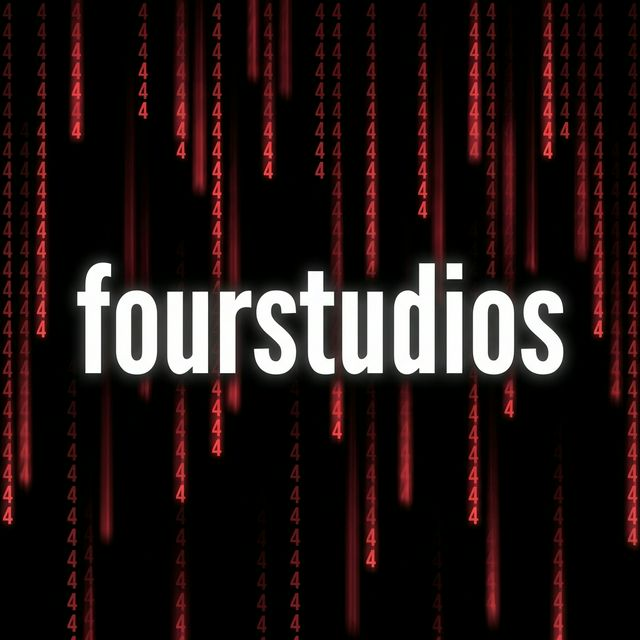
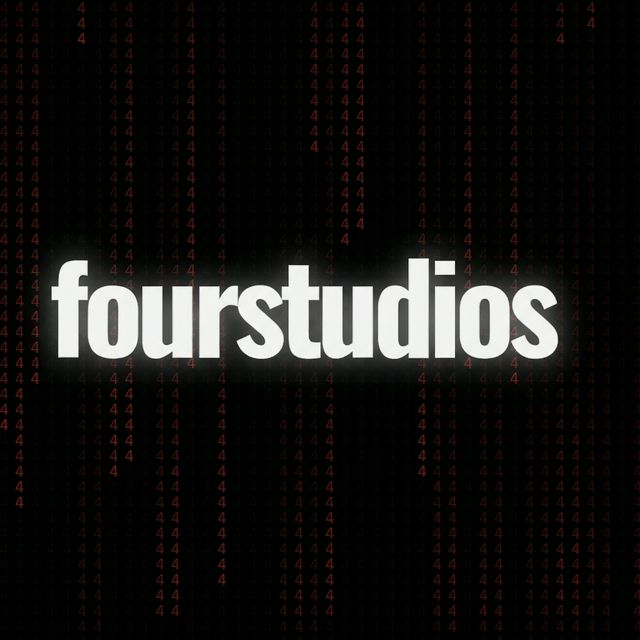
fix: clean OG image - removed blue browser border

diff --git a/src/components/Hero.tsx b/src/components/Hero.tsx
@@ -10,33 +10,25 @@ const Hero = () => {
             {/* Content */}
             <div className="relative z-10 px-4 sm:px-6 lg:px-8 text-center max-w-5xl mx-auto flex flex-col items-center">
 
-                {/* Top Tagline */}
-                <div className="mb-12 animate-fade-in-up delay-100 mix-blend-screen">
-                    <span className="text-xs md:text-sm font-bold tracking-[0.4em] uppercase text-blood-red font-oswald border-b border-blood-red/30 pb-2 shadow-[0_0_15px_rgba(138,3,3,0.5)]">
-                        Est. 2025 • High Performance Digital
+                {/* Main Headline — Minimal & Bold */}
+                <h1 className="font-oswald uppercase tracking-wider leading-none mb-6 animate-fade-in-up delay-200 select-none">
+                    <span className="text-6xl md:text-[10rem] font-black text-transparent bg-clip-text bg-gradient-to-b from-blood-red via-red-600 to-red-900 drop-shadow-[0_0_40px_rgba(138,3,3,0.6)] animate-pulse-slow">
+                        FOUR
                     </span>
-                </div>
-
-                {/* Main Headline */}
-                <h1 className="text-5xl md:text-8xl font-bold font-oswald uppercase tracking-wide text-white leading-tight mb-8 animate-fade-in-up delay-200">
-                    Digital Assets.<br />
-                    <span className="text-transparent bg-clip-text bg-gradient-to-b from-white to-gray-500 animate-pulse-slow">Full Ownership.</span>
+                    <span className="text-5xl md:text-8xl font-bold text-white tracking-[0.15em] ml-2 md:ml-4">
+                        YOU.
+                    </span>
                 </h1>
 
-                {/* Subcopy */}
-                <p className="text-lg md:text-xl text-gray-300 font-light max-w-2xl mx-auto mb-16 tracking-wide leading-relaxed animate-fade-in-up delay-300 drop-shadow-md">
-                    We build the systems that build your business. <br className="hidden md:block" />
-                    No leasing. No retainers. Just pure equity.
+                {/* Single-Line Tagline */}
+                <p className="text-sm md:text-base text-gray-500 font-light tracking-[0.3em] uppercase animate-fade-in-up delay-300">
+                    We build what you own.
                 </p>
 
-                {/* Minimal Actions */}
-                <div className="flex flex-col md:flex-row items-center gap-8 animate-fade-in-up delay-400">
-                    <button className="text-white hover:text-blood-red transition-colors duration-300 font-oswald uppercase tracking-[0.2em] text-sm border-b border-white/20 hover:border-blood-red pb-1 hover:shadow-[0_0_10px_rgba(138,3,3,0.5)]">
-                        Start Project
-                    </button>
-                    <span className="text-gray-700 hidden md:inline">|</span>
-                    <button className="text-gray-500 hover:text-white transition-colors duration-300 font-oswald uppercase tracking-[0.2em] text-sm pb-1">
-                        View Work
+                {/* Single CTA */}
+                <div className="mt-16 animate-fade-in-up delay-400">
+                    <button className="text-white/60 hover:text-blood-red transition-all duration-500 font-oswald uppercase tracking-[0.3em] text-xs border-b border-white/10 hover:border-blood-red/50 pb-2 hover:shadow-[0_0_20px_rgba(138,3,3,0.4)]">
+                        Get Started
                     </button>
                 </div>
 

diff --git a/src/components/Portfolio.tsx b/src/components/Portfolio.tsx
@@ -32,7 +32,7 @@ const Portfolio = () => {
                 <div className="flex flex-col md:flex-row justify-between items-end mb-12 gap-6">
                     <div>
                         <h2 className="text-sm font-bold text-blood-red tracking-[0.2em] uppercase mb-3 font-oswald">Our Work</h2>
-                        <h3 className="text-3xl md:text-5xl font-bold text-white font-oswald uppercase tracking-tight">Results <span className="text-gray-600">Speak</span></h3>
+                        <h3 className="text-3xl md:text-5xl font-bold text-white font-oswald uppercase tracking-tight">Results Speak <span className="text-blood-red drop-shadow-[0_0_10px_rgba(138,3,3,0.5)]">Four</span> <span className="text-gray-600">Themselves</span></h3>
                     </div>
                     <button className="text-white hover:text-blood-red transition-colors font-oswald uppercase tracking-widest text-sm flex items-center gap-2 group">
                         View Full Portfolio <ArrowUpRight className="w-4 h-4 group-hover:-translate-y-1 group-hover:translate-x-1 transition-transform" />

diff --git a/src/components/Contact.tsx b/src/components/Contact.tsx
@@ -9,10 +9,10 @@ const Contact = () => {
 
             <div className="max-w-4xl mx-auto px-4 sm:px-6 lg:px-8 relative z-10 text-center">
                 <h2 className="text-4xl md:text-7xl font-bold text-white mb-6 font-oswald uppercase tracking-tighter leading-none animate-pulse-slow">
-                    Ready to <span className="text-blood-red shadow-[0_0_20px_rgba(138,3,3,0.4)]">Upgrade?</span>
+                    Ready <span className="text-blood-red drop-shadow-[0_0_20px_rgba(138,3,3,0.5)]">Four</span> More?
                 </h2>
                 <p className="text-xl text-gray-400 mb-12 max-w-2xl mx-auto font-light">
-                    Stop relying on rented land. Own your platform, own your client list, and own your future.
+                    We go the extra mile — because we build <span className="text-blood-red font-bold font-oswald">FOUR</span> people, not platforms.
                 </p>
 
                 <div className="flex flex-col sm:flex-row items-center justify-center gap-6">

diff --git a/src/components/Pricing.tsx b/src/components/Pricing.tsx
@@ -127,7 +127,7 @@ const Pricing = () => {
                         Simple, Transparent <span className="text-white">Pricing</span>
                     </h3>
                     <p className="text-gray-400 max-w-2xl mx-auto text-lg font-light">
-                        One-time build fees. You own the code. You own the platform.
+                        Built <span className="text-blood-red font-bold font-oswald">FOUR</span> keeps. You own the code. You own the platform.
                     </p>
                 </div>
 
